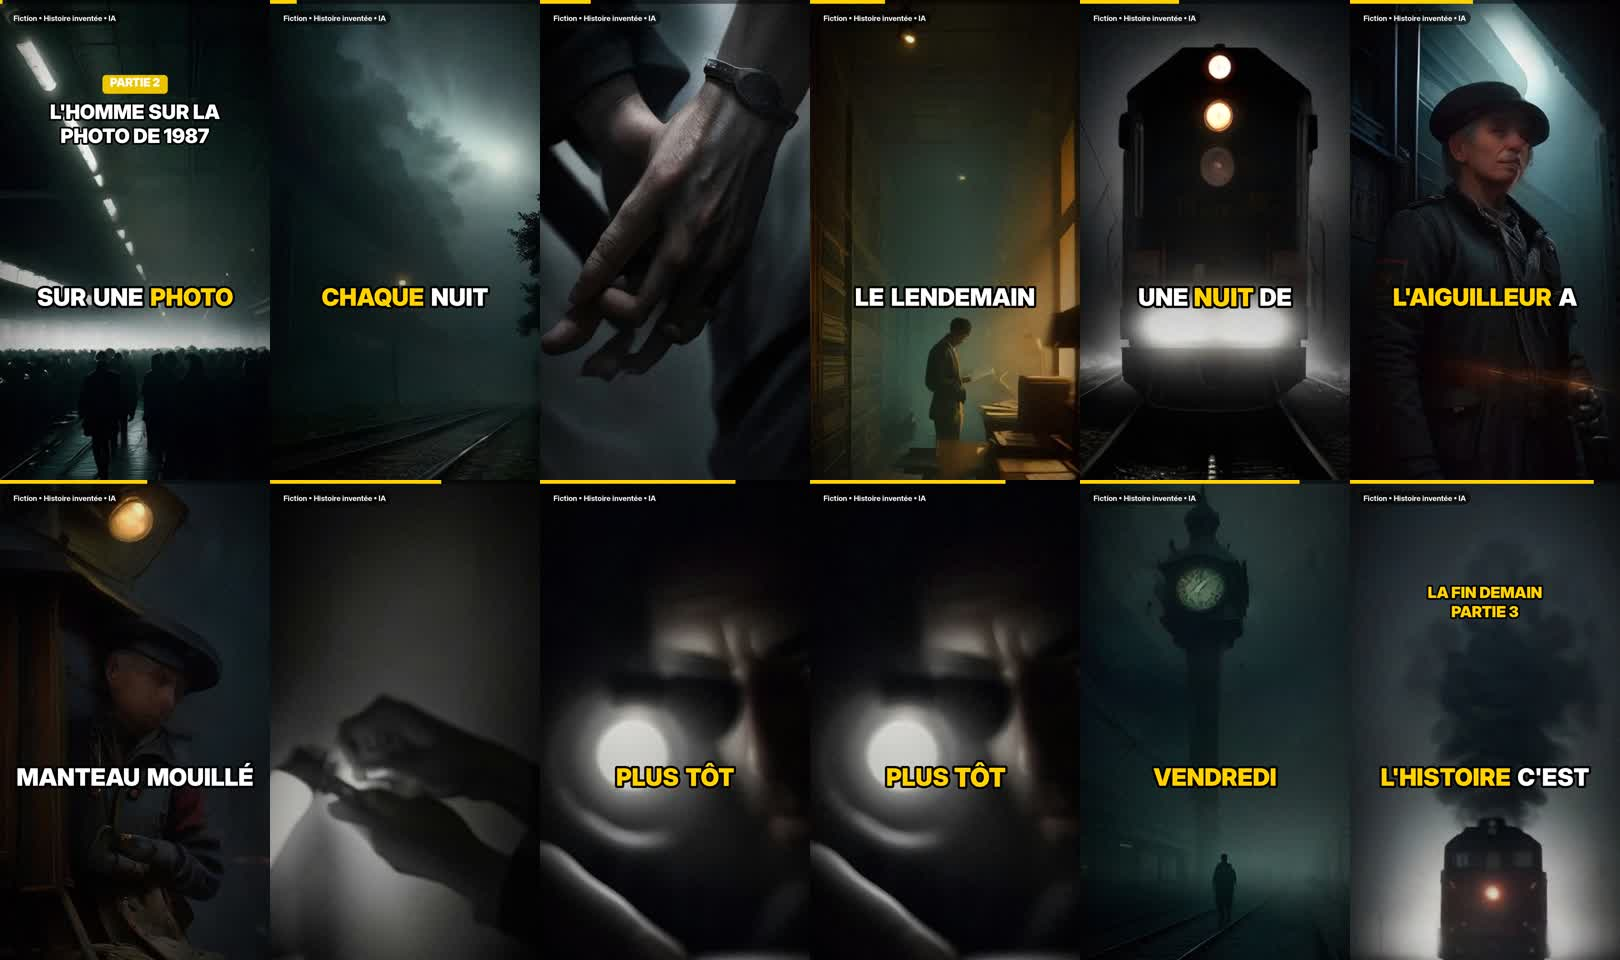
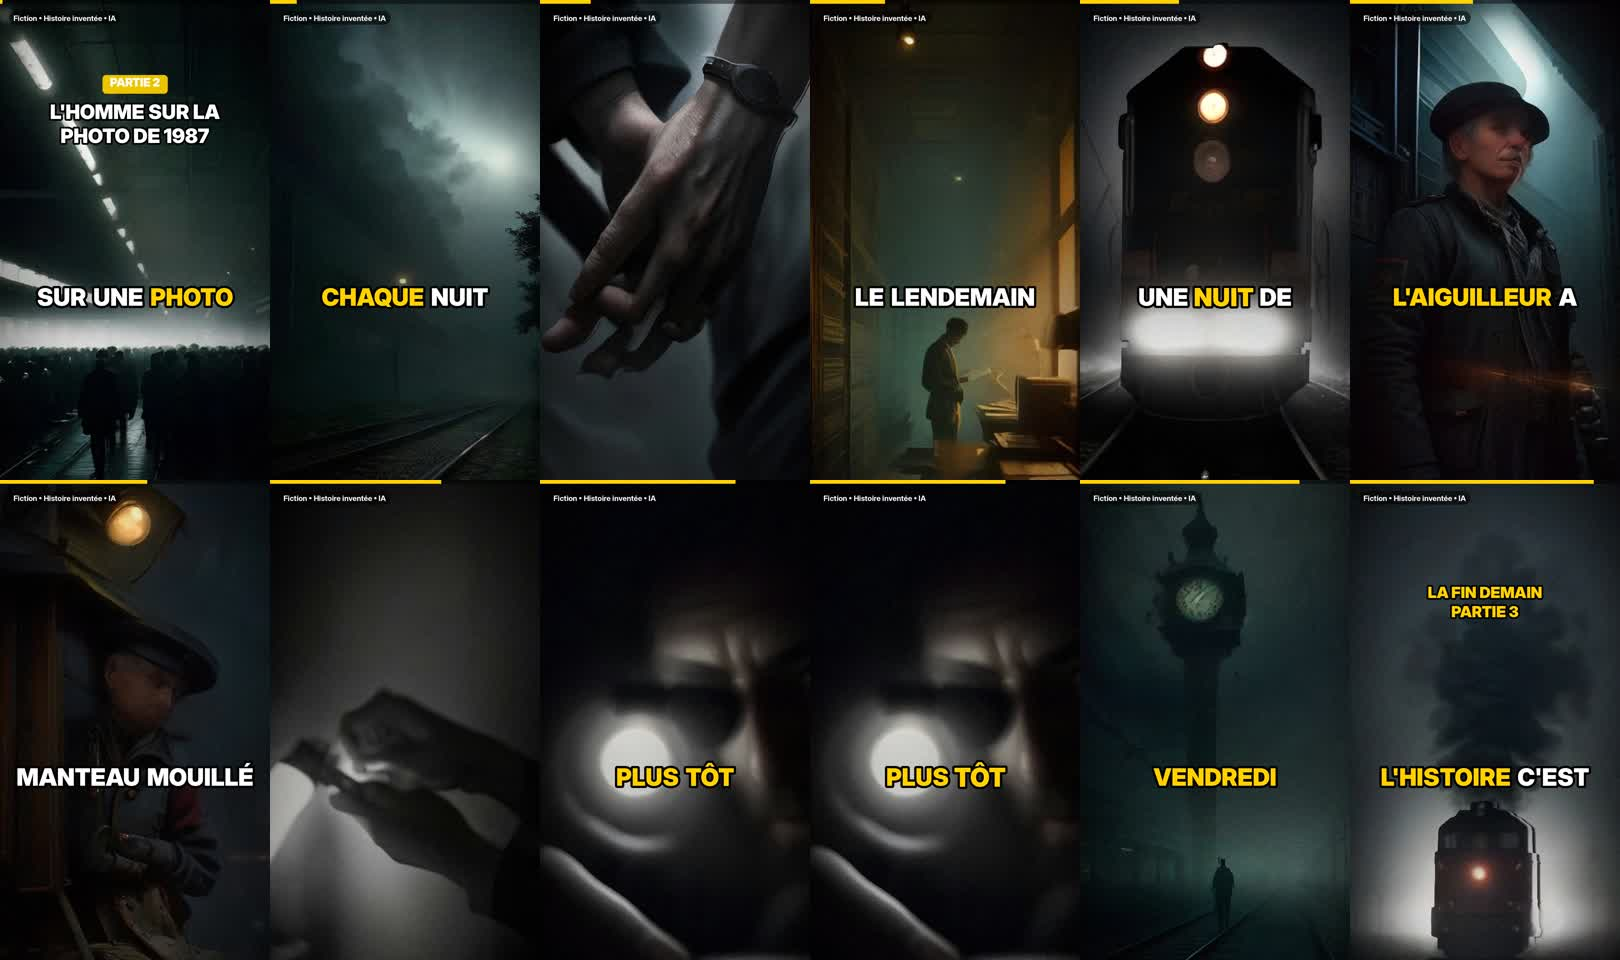
cycle 10: série « Le Calendrier » P1 programmée, Dernier Train P2/P3 passés en 3D
Claude-Session: https://claude.ai/code/session_01MTp3fYDJizbNruQ4hNct4W

diff --git a/tiktok-auto/generateur/generer.py b/tiktok-auto/generateur/generer.py
@@ -575,7 +575,9 @@ def render_overlay(img: Image.Image, t: float, ctx: dict):
             x = (W - tot) / 2
             yb = 1130 + (1 - appear) * 25
             for (txt, active, pop), wd in zip(pieces, widths):
-                fz = int(fsz * scale * (1 + 0.10 * pop))
+                # agrandissement limité pour que le mot ne mange jamais plus de 35 % de l'espace voisin
+                grow = min(0.10, 0.7 * sp / max(wd, 1))
+                fz = int(fsz * scale * (1 + grow * pop))
                 fa = font("black", fz)
                 col = accent if active else (255, 255, 255)
                 # le mot grossit autour de son propre centre : il ne déborde jamais sur l'espace voisin

diff --git a/tiktok-auto/histoires/series/calendrier.md b/tiktok-auto/histoires/series/calendrier.md
@@ -1,0 +1,19 @@
+# Série « Le Calendrier » — bible (fiction originale)
+
+Créneau 18:45, 3 épisodes ~70 s (170-190 mots), à partir du 24/11. Narratrice : **Chloé** (~25 ans) → voix de femme.
+Tendance : contenus de Noël très tôt en France (dès novembre). Mouvement 3D sur tous les plans.
+
+## P1 (24/11)
+Chloé vide la maison de sa grand-mère (partie en maison de retraite). Au grenier : calendrier de l'Avent en bois,
+24 portes. Porte 1 : « demain il neigera » (en novembre, il fait doux) → neige. Porte 2 : « la voisine sonnera à midi »
+→ midi pile, ça sonne. Elle tente d'ouvrir la 24 : scellée à la cire, gravé « ne l'ouvre surtout pas avant Noël, Chloé ».
+
+## P2 (25/11)
+Les prédictions deviennent des avertissements : « ne prends pas le vélo jeudi » (accident évité, un camion grille le feu).
+Elle rend visite à sa grand-mère : celle-ci, qui ne reconnaît plus personne, lui dit clairement « tu as trouvé mon calendrier ».
+Cliffhanger : la porte du lendemain est vide… sauf une goutte de cire rouge.
+
+## P3 (26/11, fin)
+La grand-mère explique : le calendrier passe de mère en fille ; il ne prédit pas, il PROTÈGE — chaque porte est un danger évité.
+La porte vide = la grand-mère elle-même a pris ce jour-là pour elle (dernier geste de protection). Porte 24, à Noël :
+un petit mot « maintenant c'est toi qui écris les portes ». Chute douce et émouvante (pas d'horreur), teaser série suivante.

diff --git a/tiktok-auto/JOURNAL.md b/tiktok-auto/JOURNAL.md
@@ -209,3 +209,15 @@ Ces vidéos ne sont pas suivies par l'automatisation (aucune action de ma part s
 - Stats : 402 abonnés. P2 286 vues, P1 v2 272, La pellicule 257. Toujours 0 commentaire.
 - Prochain cycle : nouvelle série (épisodes ~70 s, mouvement 3D) pour le 24/11 ; mise à niveau 3D de
   Dernier Train P2/P3 si le temps le permet.
+
+### 2026-11-21 ~02 h 30 (Paris) — Cycle 10 (automatique)
+1. Statut : « Vous êtes arrivée » publiée hier 21 h 15 (https://www.tiktok.com/@rt_production_/video/7710349886134308099).
+2. Stats : 401 abonnés, 9 930 j'aime. P2 286 vues, P1 v2 272, La pellicule 261, P3 180 (~6 h),
+   « Vous êtes arrivée » 93 (~3 h, 2 j'aime). **0 commentaire malgré le carton interactif** (1ʳᵉ mesure) :
+   test maintenu sur 2 vidéos de plus avant décision.
+3. Dernier Train P2 et P3 refaits avec le mouvement 3D et reprogrammés aux mêmes créneaux (22 et 23/11).
+4. **Nouvelle série « Le Calendrier »** (tendance Noël précoce ; bible histoires/series/calendrier.md) :
+   P1 62 s (épisode court), voix de femme (Chloé), 14 plans en 3D, 0 faute (1 faux positif justifié).
+   Planche : calendrier invisible dans l'accroche → images reformulées ; mots longs surlignés collés
+   (« CALENDRIERDE ») → agrandissement limité selon la longueur du mot. **Programmée le 24/11 à 18 h 45.**
+5. Prochain cycle : histoire courte pour le 22/11 à 21 h 15 (créneau libre), puis Calendrier P2 (25/11).
